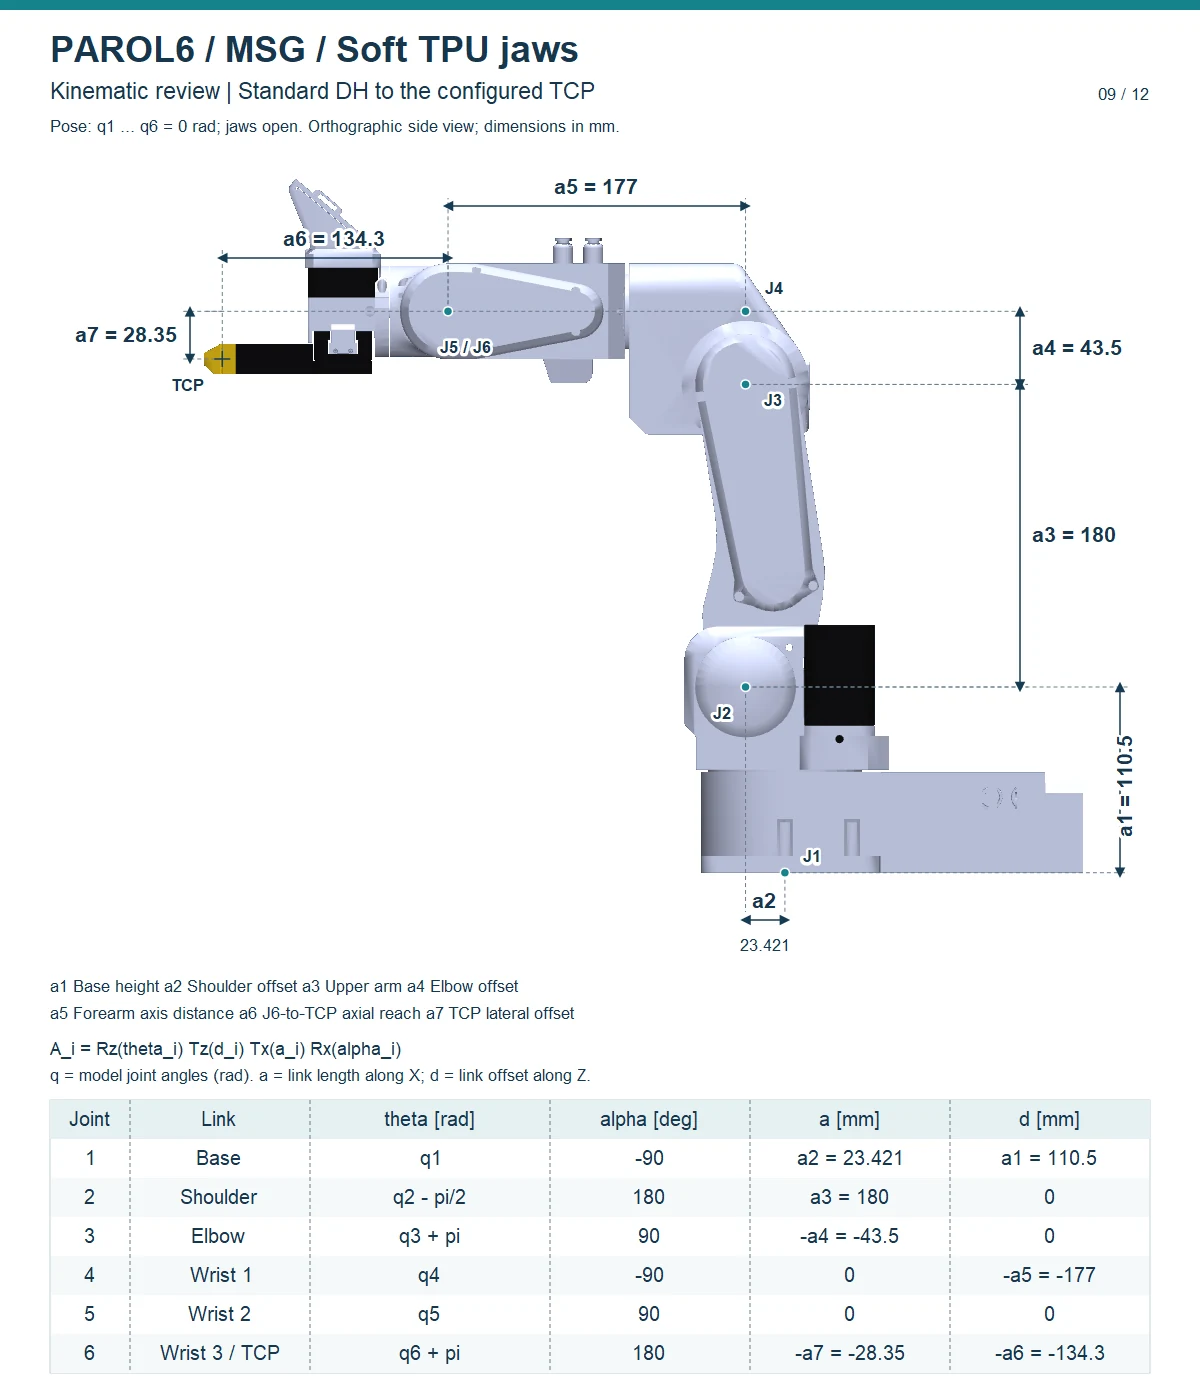
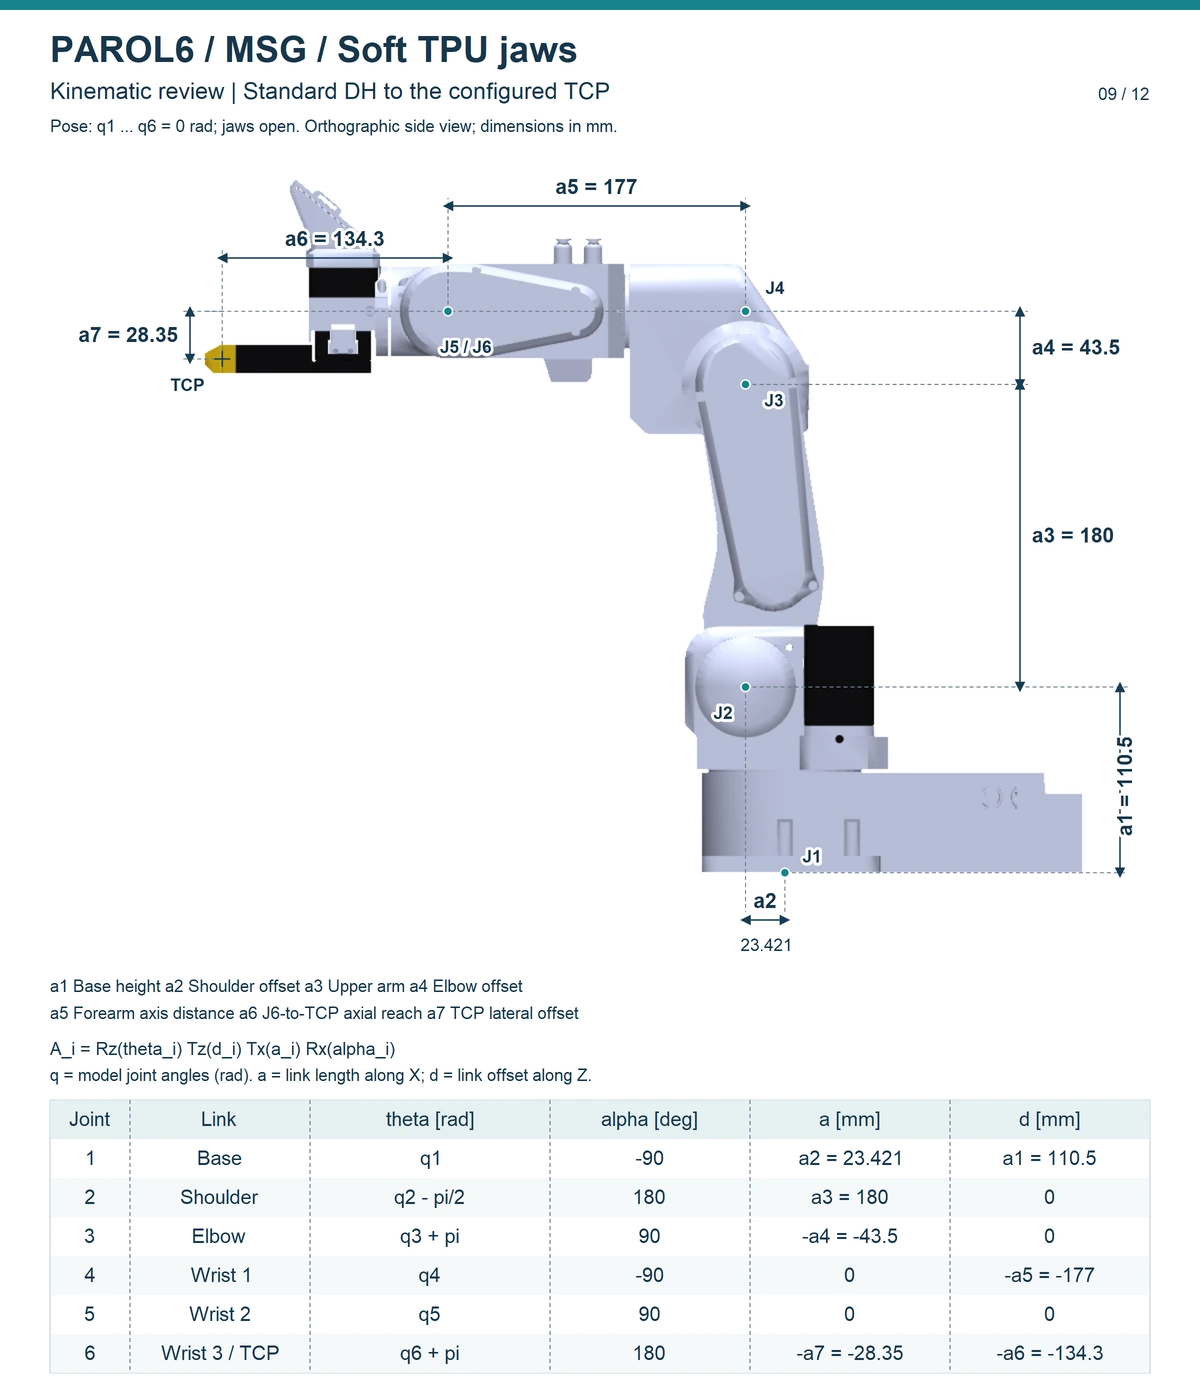
Kinematics sheets in a light and a dark version
The six robot_descriptions review sheets (dimensions and DH table per tool) re-rendered from their SVGs by
tools/robot-figures/review_sheets.py (workspace repo): the robot render's white background made transparent, the
dark one with the sheet's colours mapped to the slate theme, both drawn on their page colour and cropped below the
DH table as before. 13 images on Dimensions and kinematics, the end-effector pages and the theory page now switch
with #only-light / #only-dark.

diff --git a/docs/03-technical-data/kinematics.md b/docs/03-technical-data/kinematics.md
@@ -23,27 +23,33 @@ configuration. Click a sheet to enlarge it.
 
 === "Flange only"
 
-    ![PAROL6 with nothing on the flange: dimensions and the DH table to the TCP](../assets/kinematics/parol6_flange.webp){ width="700" }
+    ![PAROL6 with nothing on the flange: dimensions and the DH table to the TCP](../assets/kinematics/parol6_flange.webp#only-light){ width="700" }
+    ![PAROL6 with nothing on the flange: dimensions and the DH table to the TCP](../assets/kinematics/parol6_flange_dark.webp#only-dark){ width="700" }
 
 === "Pneumatic gripper"
 
-    ![PAROL6 with the standard pneumatic gripper: dimensions and the DH table to the TCP](../assets/kinematics/parol6_pneumatic.webp){ width="700" }
+    ![PAROL6 with the standard pneumatic gripper: dimensions and the DH table to the TCP](../assets/kinematics/parol6_pneumatic.webp#only-light){ width="700" }
+    ![PAROL6 with the standard pneumatic gripper: dimensions and the DH table to the TCP](../assets/kinematics/parol6_pneumatic_dark.webp#only-dark){ width="700" }
 
 === "SSG-48"
 
-    ![PAROL6 with the SSG-48 gripper, solid jaws: dimensions and the DH table to the TCP](../assets/kinematics/parol6_ssg48.webp){ width="700" }
+    ![PAROL6 with the SSG-48 gripper, solid jaws: dimensions and the DH table to the TCP](../assets/kinematics/parol6_ssg48.webp#only-light){ width="700" }
+    ![PAROL6 with the SSG-48 gripper, solid jaws: dimensions and the DH table to the TCP](../assets/kinematics/parol6_ssg48_dark.webp#only-dark){ width="700" }
 
 === "SSG-48 fin-ray"
 
-    ![PAROL6 with the SSG-48 gripper, fin-ray jaws: dimensions and the DH table to the TCP](../assets/kinematics/parol6_ssg48_stock.webp){ width="700" }
+    ![PAROL6 with the SSG-48 gripper, fin-ray jaws: dimensions and the DH table to the TCP](../assets/kinematics/parol6_ssg48_stock.webp#only-light){ width="700" }
+    ![PAROL6 with the SSG-48 gripper, fin-ray jaws: dimensions and the DH table to the TCP](../assets/kinematics/parol6_ssg48_stock_dark.webp#only-dark){ width="700" }
 
 === "MSG"
 
-    ![PAROL6 with the MSG gripper, solid jaws: dimensions and the DH table to the TCP](../assets/kinematics/parol6_msg.webp){ width="700" }
+    ![PAROL6 with the MSG gripper, solid jaws: dimensions and the DH table to the TCP](../assets/kinematics/parol6_msg.webp#only-light){ width="700" }
+    ![PAROL6 with the MSG gripper, solid jaws: dimensions and the DH table to the TCP](../assets/kinematics/parol6_msg_dark.webp#only-dark){ width="700" }
 
 === "MSG soft jaws"
 
-    ![PAROL6 with the MSG gripper, soft TPU jaws: dimensions and the DH table to the TCP](../assets/kinematics/parol6_msg_tpu_glue.webp){ width="700" }
+    ![PAROL6 with the MSG gripper, soft TPU jaws: dimensions and the DH table to the TCP](../assets/kinematics/parol6_msg_tpu_glue.webp#only-light){ width="700" }
+    ![PAROL6 with the MSG gripper, soft TPU jaws: dimensions and the DH table to the TCP](../assets/kinematics/parol6_msg_tpu_glue_dark.webp#only-dark){ width="700" }
 
 | Dimension | What it is | Value |
 |---|---|---|

diff --git a/docs/end-effectors/ssg-48.md b/docs/end-effectors/ssg-48.md
@@ -44,11 +44,13 @@ tool is compared on [Dimensions and kinematics](../03-technical-data/kinematics.
 
 === "Solid jaws"
 
-    ![PAROL6 with the SSG-48, solid jaws: dimensions to the TCP and the DH table](../assets/kinematics/parol6_ssg48.webp){ width="600" }
+    ![PAROL6 with the SSG-48, solid jaws: dimensions to the TCP and the DH table](../assets/kinematics/parol6_ssg48.webp#only-light){ width="600" }
+    ![PAROL6 with the SSG-48, solid jaws: dimensions to the TCP and the DH table](../assets/kinematics/parol6_ssg48_dark.webp#only-dark){ width="600" }
 
 === "Fin-ray jaws"
 
-    ![PAROL6 with the SSG-48, fin-ray jaws: dimensions to the TCP and the DH table](../assets/kinematics/parol6_ssg48_stock.webp){ width="600" }
+    ![PAROL6 with the SSG-48, fin-ray jaws: dimensions to the TCP and the DH table](../assets/kinematics/parol6_ssg48_stock.webp#only-light){ width="600" }
+    ![PAROL6 with the SSG-48, fin-ray jaws: dimensions to the TCP and the DH table](../assets/kinematics/parol6_ssg48_stock_dark.webp#only-dark){ width="600" }
 
 ## The joint 5 homing offset
 

diff --git a/docs/end-effectors/msg.md b/docs/end-effectors/msg.md
@@ -42,11 +42,13 @@ every tool is compared on [Dimensions and kinematics](../03-technical-data/kinem
 
 === "Solid jaws"
 
-    ![PAROL6 with the MSG, solid jaws: dimensions to the TCP and the DH table](../assets/kinematics/parol6_msg.webp){ width="600" }
+    ![PAROL6 with the MSG, solid jaws: dimensions to the TCP and the DH table](../assets/kinematics/parol6_msg.webp#only-light){ width="600" }
+    ![PAROL6 with the MSG, solid jaws: dimensions to the TCP and the DH table](../assets/kinematics/parol6_msg_dark.webp#only-dark){ width="600" }
 
 === "Soft TPU jaws"
 
-    ![PAROL6 with the MSG, soft TPU jaws: dimensions to the TCP and the DH table](../assets/kinematics/parol6_msg_tpu_glue.webp){ width="600" }
+    ![PAROL6 with the MSG, soft TPU jaws: dimensions to the TCP and the DH table](../assets/kinematics/parol6_msg_tpu_glue.webp#only-light){ width="600" }
+    ![PAROL6 with the MSG, soft TPU jaws: dimensions to the TCP and the DH table](../assets/kinematics/parol6_msg_tpu_glue_dark.webp#only-dark){ width="600" }
 
 ## The joint 5 homing offset
 

diff --git a/docs/theory/kinematics.md b/docs/theory/kinematics.md
@@ -15,7 +15,8 @@ The sheet below shows both at once for PAROL6 with nothing on the flange: the ro
 joint at 0, the joint centres J1 to J6, the dimensions a1 to a7 between them, and under it the DH table those
 dimensions make. The Robot Manual has the same sheet for every gripper.
 
-![PAROL6, flange only: the dimensions a1 to a7 between the joint centres, and the DH table they make](../assets/kinematics/parol6_flange.webp){ width="600" }
+![PAROL6, flange only: the dimensions a1 to a7 between the joint centres, and the DH table they make](../assets/kinematics/parol6_flange.webp#only-light){ width="600" }
+![PAROL6, flange only: the dimensions a1 to a7 between the joint centres, and the DH table they make](../assets/kinematics/parol6_flange_dark.webp#only-dark){ width="600" }
 
 ## Forward kinematics
 

diff --git a/docs/end-effectors/flange.md b/docs/end-effectors/flange.md
@@ -38,7 +38,8 @@ With nothing on the flange, the TCP is the flange's reference point. The sheet i
 Tell the software about the tool ([Tools and the TCP](../programming/02-python-api/tools-and-tcp.md)); every tool
 is compared on [Dimensions and kinematics](../03-technical-data/kinematics.md).
 
-![PAROL6 with the flange only: dimensions to the TCP and the DH table](../assets/kinematics/parol6_flange.webp){ width="600" }
+![PAROL6 with the flange only: dimensions to the TCP and the DH table](../assets/kinematics/parol6_flange.webp#only-light){ width="600" }
+![PAROL6 with the flange only: dimensions to the TCP and the DH table](../assets/kinematics/parol6_flange_dark.webp#only-dark){ width="600" }
 
 ## Homing and the tool
 

diff --git a/docs/end-effectors/pneumatic-gripper.md b/docs/end-effectors/pneumatic-gripper.md
@@ -33,7 +33,8 @@ is the robot's model from [robot_descriptions](https://github.com/Source-Robotic
 TCP](../programming/02-python-api/tools-and-tcp.md)); every tool is compared on [Dimensions and
 kinematics](../03-technical-data/kinematics.md).
 
-![PAROL6 with the pneumatic gripper: dimensions to the TCP and the DH table](../assets/kinematics/parol6_pneumatic.webp){ width="600" }
+![PAROL6 with the pneumatic gripper: dimensions to the TCP and the DH table](../assets/kinematics/parol6_pneumatic.webp#only-light){ width="600" }
+![PAROL6 with the pneumatic gripper: dimensions to the TCP and the DH table](../assets/kinematics/parol6_pneumatic_dark.webp#only-dark){ width="600" }
 
 ## Driving it
 
